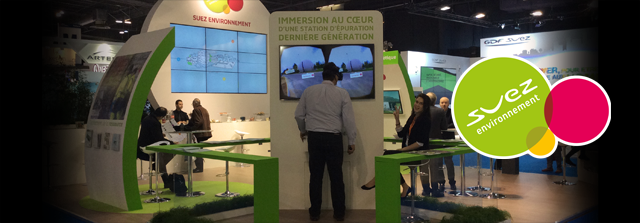
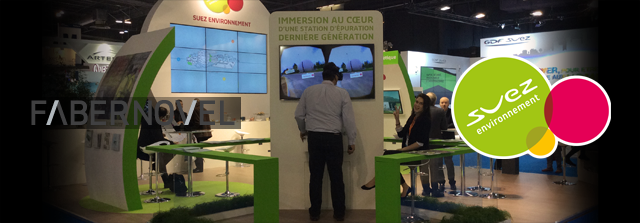
Update pictures, video and auto-resizing
Adding the information icon on pcitures.
Adding the live robot video for remoteCTRL operation.
Adding auto-resizing with wrapper on youtube and vimeo player.

Changed region(s): [[0.0312, 0.4305, 0.375, 0.5919]]

diff --git a/index.html b/index.html
@@ -136,14 +136,15 @@
   </div>  <!-- end of we use -->
 
 
-
-
+  <div id="our_projects">
+  <h2>Our projects : </h2>
   <div class="slide_container">
 
 
 
       <div class="mediabox" id="cardboard">
-          <img src="images/cardboard.png" alt="Cardboard" />
+          <img src="images/cardboard_i.png" alt="Cardboard" />
+          <button type="button" class="info-picto"></button>
       </div>
             <div id="cardboard_view" class="modal">
                 <div class='articles'>
@@ -161,14 +162,16 @@
 
 
       <div class="mediabox" id="3D_scanning">
-          <img src="images/3D_scanning.png" alt="3D scanning" />
+          <img src="images/3D_scanning_i.png" alt="3D scanning" />
       </div>
             <div id="3D_scanning_view" class="modal">
                 <div class='articles'>
                   <button type="button" class="overlay-close"></button>
                     <!-- <img src="images/3D_scanning.png" alt="live 3D scanning" /> -->
                     <h3>Atsugi robotics</h3>  
-                    <iframe ID="3D_scanning_video" width="80%" height="60%" src="https://www.youtube.com/embed/OxTG5n6LvHA" frameborder="0" allowfullscreen></iframe>  
+                    <div class="videoWrapper">
+                        <iframe ID="3D_scanning_video" width="560" height="349" src="https://www.youtube.com/embed/OxTG5n6LvHA" frameborder="0" allowfullscreen></iframe>
+                    </div>
                     <p>  
                     Live 3D scanning for "RealHuman" for Arte, with AgateFilm and Cyril Diagne.
                     </p>
@@ -177,14 +180,16 @@
 
 
       <div class="mediabox" id="typerider">
-        <img src="images/typerider.png" alt="TypeRider" />
+        <img src="images/typerider_i.png" alt="TypeRider" />
       </div>
         <div id="typerider_view" class="modal">
           <div class='articles'>
             <button type="button" class="overlay-close"></button>
                 <!-- <img src="images/typerider.png" alt="TypeRider" /> -->
                 <h3>TYPE:RIDER</h3>
-                <iframe id="typerider_vimeo" src="http://player.vimeo.com/video/92312576" width="80%%" height="60%" webkitallowfullscreen mozallowfullscreen allowfullscreen></iframe>
+                 <div class="videoWrapper">
+                        <iframe ID="typerider_vimeo" width="560" height="349" src="http://player.vimeo.com/video/92312576" webkitallowfullscreen mozallowfullscreen allowfullscreen></iframe>
+                 </div>
                 <p>Type:Rider is an award winning video game.
                   We did the project management of the whole project and build the interactive installation related to the project.
                   </br> <a href="http://typerider.arte.tv/" target="_blank"> More infos : http://typerider.arte.tv/</a>   
@@ -195,14 +200,16 @@
         </div>    
 
       <div class="mediabox" id="holyshield">
-              <img src="images/holyshield.png" alt="Holy Shield" />
+              <img src="images/holyshield_i.png" alt="Holy Shield" />
             </div>
               <div id="holyshield_view" class="modal">
                   <div class='articles'>
                         <button type="button" class="overlay-close"></button>
-                        <!-- <img src="images/holyshield.png" alt="Holy Shield" /> -->
+                        <!-- <img src="images/holyshield_i.png" alt="Holy Shield" /> -->
                         <h3>JOURNEY TO HELL</h3>
-                        <iframe id="holyshield_vimeo" src="https://player.vimeo.com/video/92327798" width="80%" height="60%" frameborder="0" webkitallowfullscreen mozallowfullscreen allowfullscreen></iframe>      
+                        <div class="videoWrapper">
+                          <iframe ID="holyshield_vimeo" width="560" height="349" src="https://player.vimeo.com/video/92327798" webkitallowfullscreen mozallowfullscreen allowfullscreen></iframe>
+                        </div>
                       <p>  
                        <a href="http://www.bulkypix.com/game/journey-to-hell" target="_blank">More info</a>        
                         <a href="https://itunes.apple.com/fr/app/journey-to-hell/id572841607?mt=8" target="_blank"><img src="images/ios.png" width="50px"></a>
@@ -211,14 +218,16 @@
               </div>
 
      <div class="mediabox" id="chickendoom">
-            <img src="images/chickendoom.png" alt="Chicken Doom " />
+            <img src="images/chickendoom_i.png" alt="Chicken Doom " />
           </div>
             <div id="chickendoom_view" class="modal">
                 <div class='articles'>
                       <button type="button" class="overlay-close"></button>
                       <!-- <img src="images/chickendoom.png" alt="Chicken Doom " /> -->
                       <h3>CHICKEN DOOM</h3>
-                      <iframe id="chickendoom_vimeo" src="https://player.vimeo.com/video/92316781" width="80%" height="60%" frameborder="0" webkitallowfullscreen mozallowfullscreen allowfullscreen></iframe>
+                      <div class="videoWrapper">
+                          <iframe ID="chickendoom_vimeo" width="560" height="349" src="https://player.vimeo.com/video/92316781" webkitallowfullscreen mozallowfullscreen allowfullscreen></iframe>
+                      </div>
                       <p> <a href="http://www.bulkypix.com/game/chicken-doom" target="_blank">More info</a>       
                       <a href="https://itunes.apple.com/fr/app/chicken-doom/id530444566?mt=8" target="_blank"><img src="images/ios.png" width="50px"></a>
                       </p>      
@@ -228,7 +237,7 @@
 
 
       <div class="mediabox" id="realhuman">
-        <img src="images/realhuman.png" alt="Real Human" />
+        <img src="images/realhuman_i.png" alt="Real Human" />
       </div>
         <div id="realhuman_view" class="modal">
             <div class='articles'>
@@ -246,7 +255,7 @@
 
 
       <div class="mediabox" id="motorsmob">
-        <img src="images/motorsmob.png" alt="MotorsMob"/>
+        <img src="images/motorsmob_i.png" alt="MotorsMob"/>
       </div>
         <div id="motorsmob_view" class="modal">
             <div class='articles'>
@@ -265,7 +274,7 @@
 
 
       <div class="mediabox" id="parvis">
-              <img src="images/parvis.png" alt="Parvis" />
+              <img src="images/parvis_i.png" alt="Parvis" />
             </div>
               <div id="parvis_view" class="modal">
                   <div class='articles'> 
@@ -279,7 +288,7 @@
       
 
       <div class="mediabox" id="custom_3D">
-        <img src="images/custom_3D.png" alt="Custom 3D" />
+        <img src="images/custom_3D_i.png" alt="Custom 3D" />
       </div>
         <div id="custom_3D_view" class="modal">
             <div class='articles'>
@@ -296,7 +305,7 @@
 
 
       <div class="mediabox" id="oculus">
-        <img src="images/roche_oculus.png" alt="Oculus Rift" />
+        <img src="images/roche_oculus_i.png" alt="Oculus Rift" />
       </div>
         <div id="oculus_view" class="modal">
             <div class='articles'>
@@ -312,7 +321,7 @@
         </div>
 		
 	  <div class="mediabox" id="remotectrl">
-        <img src="images/remote-ctrl2.png" alt="Remote Control Operation" />
+        <img src="images/remote-ctrl2_i.png" alt="Remote Control Operation" />
       </div>
         <div id="remotectrl_view" class="modal">
             <div class='articles'>
@@ -332,7 +341,17 @@
                 <p>
                   Video explaining the experiment:
                 </p>
-                <iframe ID="remotectrl_explanation_video" width="80%" height="60%" src="https://www.youtube.com/embed/FbgSq6A3UZw" frameborder="0" allowfullscreen></iframe>
+                <div class="videoWrapper">
+                  <iframe ID="remotectrl_explanation_video" width="560" height="349" src="https://www.youtube.com/embed/FbgSq6A3UZw" frameborder="0" allowfullscreen></iframe>
+                </div>
+                <br/>
+                <p>
+                  Video of the robot construction and live:
+                </p>
+                <div class="videoWrapper">
+                        <iframe ID="remotectrl_live_video" width="560" height="349" src="http://player.vimeo.com/video/117390386" webkitallowfullscreen mozallowfullscreen allowfullscreen></iframe>
+                 </div>
+                 <br/>
             </div>
         </div>
 			<div id="remotectrl_elec_view" class="modal">
@@ -360,7 +379,7 @@
 				</div>
 			</div>
       <div class="mediabox" id="virtualvisitSuez">
-        <img src="images/virtual_visit_suez.png" alt="Virtual Visit for Suez Environnement" />
+        <img src="images/virtual_visit_suez_i.png" alt="Virtual Visit for Suez Environnement" />
       </div>
       <div id="virtualvisitSuez_view" class="modal">
             <div class='articles'>
@@ -379,6 +398,9 @@
                 <p>
                    The application was presented during the "Salon des maires et des collectivités locales de Paris "(25 to 27 November, 2014) and at the "Salon Pollutec de Lyon" (2 to 5 December, 2014).
                 </p>
+                <p>
+                   The project was led by  <a href="http://www.fabernovel.com/fr/" style="text-decoration:underline" target="_blank">FaberNovel</a> and the technical part develop by Novelab.
+                </p>
                 <br />
                 <!--<p>
                   Video explaining the experiment:
@@ -388,6 +410,7 @@
         </div>
 
   </div>  <!-- end of container slide show -->
+</div id="we_do">
 
 
 

diff --git a/js/script.js b/js/script.js
@@ -16,6 +16,9 @@ $('#3D_scanning_video').css('display','none');
 		video = $('#remotectrl_explanation_video').attr("src");
 					$('#remotectrl_explanation_video').attr("src","");
 					$('#remotectrl_explanation_video').attr("src",video);
+		video = $('#remotectrl_live_video').attr("src");
+					$('#remotectrl_live_video').attr("src","");
+					$('#remotectrl_live_video').attr("src",video);
 		video = $('#typerider_vimeo').attr("src");
 					$('#typerider_vimeo').attr("src","");
 					$('#typerider_vimeo').attr("src",video);
@@ -38,6 +41,7 @@ $('#3D_scanning_video').css('display','none');
 			$('#virtualvisitSuez_view').css('visibility','hidden');
 
 			$('#remotectrl_explanation_video').css('display','none');
+			$('#remotectrl_live_video').css('display','none');
 			$('#3D_scanning_video').css('display','none');
 			$('#typerider_vimeo').css('display','none');	
 			$('#chickendoom_vimeo').css('display','none');	
@@ -330,6 +334,7 @@ $('#3D_scanning_video').css('display','none');
 			$('#remotectrl_view').css('visibility', 'visible');
 			$('body').css('overflow', 'hidden');
 			$('#remotectrl_explanation_video').css('display','inline');
+			$('#remotectrl_live_video').css('display','inline');
 			$('#remotectrl_view').find('.articles').scrollTop(0);
 				$('#cardboard_view').css('visibility', 'hidden');
 				$('#typerider_view').css('visibility', 'hidden');
@@ -350,6 +355,10 @@ $('#3D_scanning_video').css('display','none');
 						$('#remotectrl_explanation_video').attr("src","");
 						$('#remotectrl_explanation_video').attr("src",video);
 						$('#remotectrl_explanation_video').css('display','none');
+						video = $('#remotectrl_live_video').attr("src");
+						$('#remotectrl_live_video').attr("src","");
+						$('#remotectrl_live_video').attr("src",video);
+						$('#remotectrl_live_video').css('display','none');
 						$(this).css('visibility', 'hidden');
 						$('body').css('overflow', 'auto');	
 					}
@@ -361,6 +370,10 @@ $('#3D_scanning_video').css('display','none');
 					$('#remotectrl_explanation_video').attr("src","");
 					$('#remotectrl_explanation_video').attr("src",video);
 					$('#remotectrl_explanation_video').css('display','none');
+			video = $('#remotectrl_live_video').attr("src");
+					$('#remotectrl_live_video').attr("src","");
+					$('#remotectrl_live_video').attr("src",video);
+					$('#remotectrl_live_video').css('display','none');
 			$('#remotectrl_elec_view').find('.articles').scrollTop(0);
 			$('#remotectrl_elec_view').css('visibility','visible');
 			$('#remotectrl_view').css('visibility','hidden');
@@ -387,6 +400,7 @@ $('#3D_scanning_video').css('display','none');
 			$('#virtualvisitSuez_view').css('visibility', 'visible');
 			$('body').css('overflow', 'hidden');
 			$('#remotectrl_explanation_video').css('display','inline');
+			$('#remotectrl_live_video').css('display','inline');
 			$('#remotectrl_view').find('.articles').scrollTop(0);
 				$('#cardboard_view').css('visibility', 'hidden');
 				$('#typerider_view').css('visibility', 'hidden');
@@ -407,6 +421,10 @@ $('#3D_scanning_video').css('display','none');
 						$('#remotectrl_explanation_video').attr("src","");
 						$('#remotectrl_explanation_video').attr("src",video);
 						$('#remotectrl_explanation_video').css('display','none');
+						video = $('#remotectrl_live_video').attr("src");
+						$('#remotectrl_live_video').attr("src","");
+						$('#remotectrl_live_video').attr("src",video);
+						$('#remotectrl_live_video').css('display','none');
 						$(this).css('visibility', 'hidden');
 						$('body').css('overflow', 'auto');	
 					}

diff --git a/index.js b/index.js
@@ -6,6 +6,7 @@ initParalax = function() {
   controller.addTween('#title2', TweenMax.from( $('#title2'), .3,{css:{right:'2000px'},ease:Quad.easeInOut}),0,-300);
   controller.addTween('#title3', TweenMax.from( $('#title3'), .3,{css:{right:'2000px'},ease:Quad.easeInOut}),0,-300);
   controller.addTween('#we_do', TweenMax.from( $('#we_do'), .5,{css:{opacity: 0}}));
+  controller.addTween('#our_projects', TweenMax.from($('#our_projects'), .5,{css:{opacity: 0}}));
   controller.addTween('#reference', TweenMax.from( $('#reference'), .5, {css:{opacity: 0}}),0,-300);;
   controller.addTween('#contact_us', TweenMax.from( $('#contact_us'), .5, {css:{opacity: 0}}));
 }

diff --git a/styles.css b/styles.css
@@ -182,6 +182,20 @@ a {
     z-index: 100;
 }
 
+.videoWrapper {
+  position: relative;
+  padding-bottom: 56.25%; /* 16:9 */
+  padding-top: 25px;
+  height: 0;
+}
+.videoWrapper iframe {
+  position: absolute;
+  top: 0;
+  left: 0;
+  width: 100%;
+  height: 100%;
+}
+
 
 
 /* this is for ipad landscape/protrait mode */ 
@@ -265,6 +279,16 @@ a {
 }
 
 #we_do h3 {
+  color: #000000;
+}
+
+#our_projects {
+  padding-top: 50px;
+  padding-bottom: 10%;
+  background-color: #FFFFE3;
+}
+
+#our_projects h3 {
   color: #000000;
 }
 

diff --git a/css/component.css b/css/component.css
@@ -36,6 +36,20 @@
 	line-height: 1.3;
 }
 
+.info-picto {
+    width: 20px;
+    height: 30px;
+    position: absolute;
+    top: 50px;
+	right: 0px;
+    overflow: hidden;
+    border: medium none;
+    background: url('images/info-picto.png') no-repeat scroll center center transparent;
+    text-indent: 100%;
+    outline: medium none;
+    z-index: 100;
+}
+
 .articles{
 			width: 60%;
 			height: 85%;
